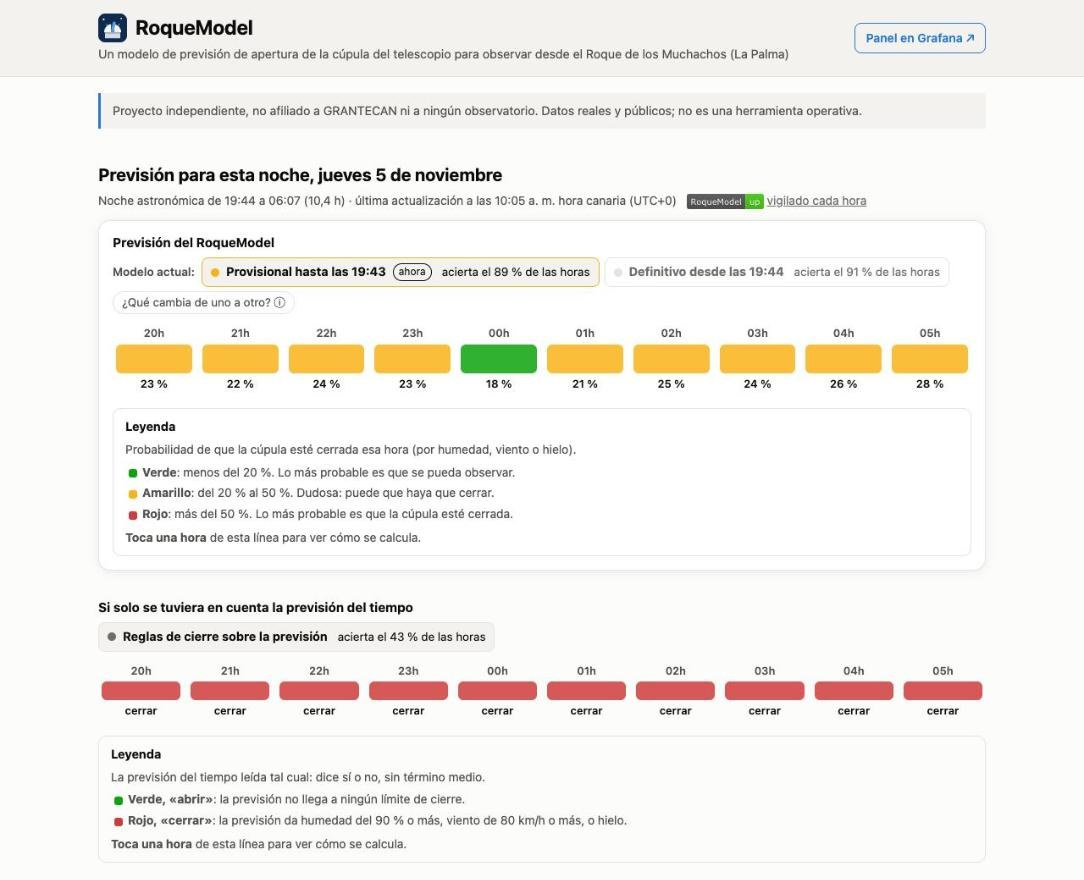
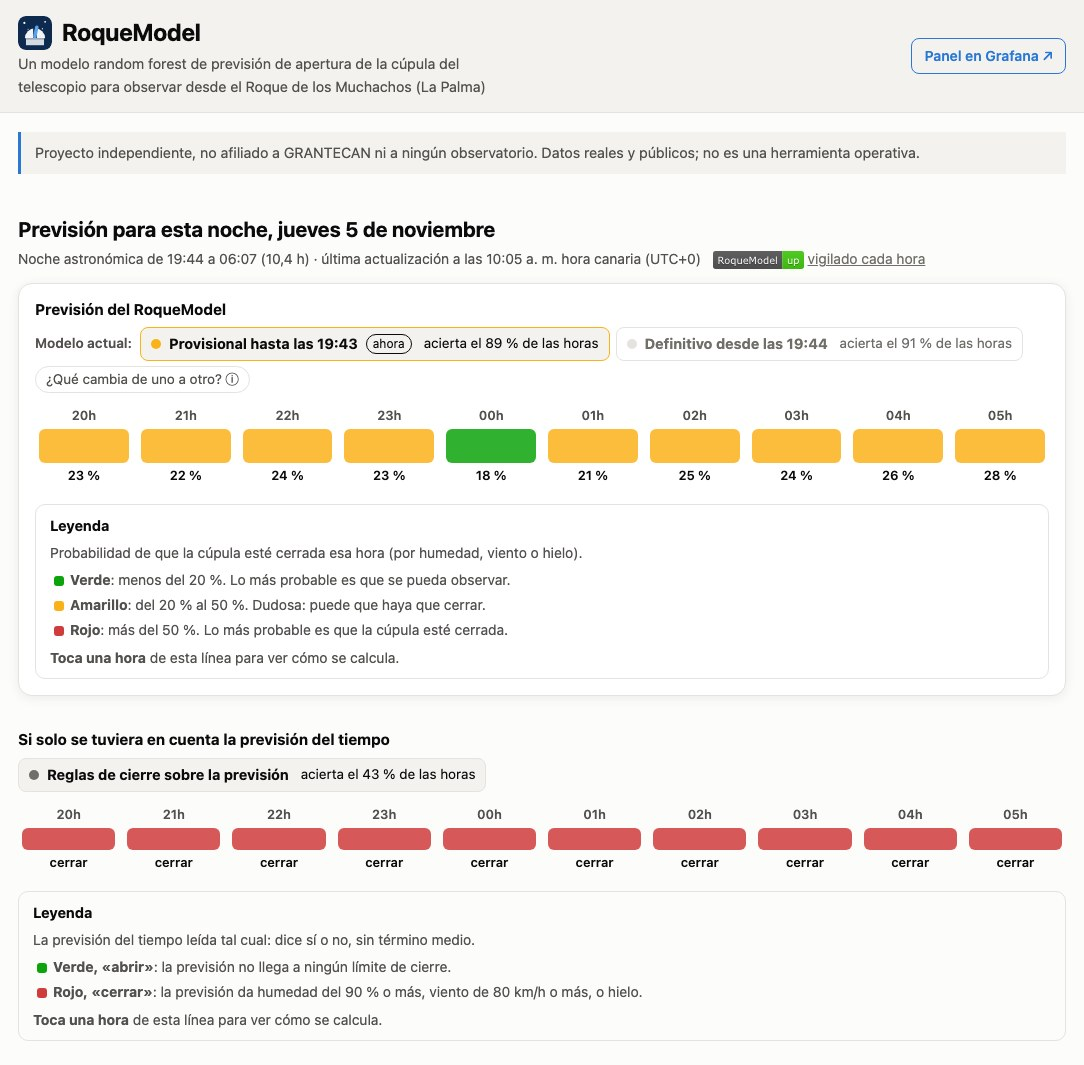
Say random forest in the subtitle and refresh the README screenshot

diff --git a/site/index.html b/site/index.html
@@ -5,16 +5,16 @@
   <meta name="viewport" content="width=device-width, initial-scale=1">
   <title>RoqueModel</title>
   <meta name="description" content="RoqueModel: previsión hora a hora de si la cúpula podrá estar abierta para observar esta noche en el Observatorio del Roque de los Muchachos (La Palma). Proyecto independiente con datos reales y públicos.">
-  <link rel="icon" href="assets/favicon-32.png?v=67" sizes="32x32" type="image/png">
-  <link rel="icon" href="assets/favicon.svg?v=67" type="image/svg+xml">
-  <link rel="apple-touch-icon" href="assets/apple-touch-icon.png?v=67">
-  <link rel="stylesheet" href="assets/style.css?v=67">
+  <link rel="icon" href="assets/favicon-32.png?v=68" sizes="32x32" type="image/png">
+  <link rel="icon" href="assets/favicon.svg?v=68" type="image/svg+xml">
+  <link rel="apple-touch-icon" href="assets/apple-touch-icon.png?v=68">
+  <link rel="stylesheet" href="assets/style.css?v=68">
 </head>
 <body>
   <header class="top">
     <div class="wrap top-row">
       <div>
-        <h1 class="brand"><img src="assets/favicon.svg?v=67" alt="" width="34" height="34">RoqueModel</h1>
+        <h1 class="brand"><img src="assets/favicon.svg?v=68" alt="" width="34" height="34">RoqueModel</h1>
         <p class="sub" data-i18n="subtitle"></p>
       </div>
       <a class="grafana-link" href="https://saimonx.github.io/roque-model/grafana/" data-i18n="grafana_link" data-i18n-title="grafana_title"></a>
@@ -143,8 +143,8 @@
   </footer>
 
   <div id="tooltip" class="tooltip" role="status" hidden></div>
-  <script src="assets/i18n.js?v=67"></script>
-  <script src="assets/charts.js?v=67"></script>
-  <script src="assets/app.js?v=67"></script>
+  <script src="assets/i18n.js?v=68"></script>
+  <script src="assets/charts.js?v=68"></script>
+  <script src="assets/app.js?v=68"></script>
 </body>
 </html>

diff --git a/site/assets/i18n.js b/site/assets/i18n.js
@@ -2,7 +2,7 @@
 // Keys used in index.html: data-i18n (plain text) and data-i18n-html (trusted HTML written here).
 window.I18N = {
   es: {
-    subtitle: "Un modelo de previsión de apertura de la cúpula del telescopio para observar desde el Roque de los Muchachos (La Palma)",
+    subtitle: "Un modelo random forest de previsión de apertura de la cúpula del telescopio para observar desde el Roque de los Muchachos (La Palma)",
     independent: "Proyecto independiente, no afiliado a GRANTECAN ni a ningún observatorio. Datos reales y públicos; no es una herramienta operativa.",
     night_of: "Previsión para esta noche, {date}",
     window: "Noche astronómica de {start} a {end} ({hours} h) · última actualización {at} {updated}",

diff --git a/site/assets/style.css b/site/assets/style.css
@@ -40,7 +40,7 @@ a { color: var(--series-1); }
 /* Header */
 .top { border-bottom: 1px solid var(--border); background: var(--surface-2); }
 .top-row { display: flex; justify-content: space-between; align-items: center; gap: 12px; padding-top: 14px; padding-bottom: 14px; }
-.sub { margin: 2px 0 0; color: var(--text-2); font-size: 0.9rem; }
+.sub { margin: 2px 0 0; color: var(--text-2); font-size: 0.9rem; text-wrap: balance; }
 .grafana-link { flex: none; font-size: 0.875rem; font-weight: 600; text-decoration: none; padding: 6px 12px;
   border: 1px solid var(--series-1); border-radius: 8px; white-space: nowrap; }
 .grafana-link:hover { background: var(--series-1); color: #fff; }

diff --git a/README.md b/README.md
@@ -3,7 +3,7 @@
 [![tests](https://github.com/saimonx/roque-model/actions/workflows/tests.yml/badge.svg)](https://github.com/saimonx/roque-model/actions/workflows/tests.yml)
 [![vigilancia cada hora](https://healthchecks.io/b/2/0437fc28-5880-4f5a-b616-9f2a2ea0c8bb.svg)](docs/DETALLES_TECNICOS.md#7-cómo-funciona-cada-hora)
 
-Un modelo de previsión de apertura de la cúpula del telescopio para observar desde el Roque de los Muchachos
+Un modelo random forest de previsión de apertura de la cúpula del telescopio para observar desde el Roque de los Muchachos
 (La Palma).
 
 Se actualiza cada hora y da, para cada hora de la noche, la probabilidad de que haya que cerrar la cúpula por humedad,
